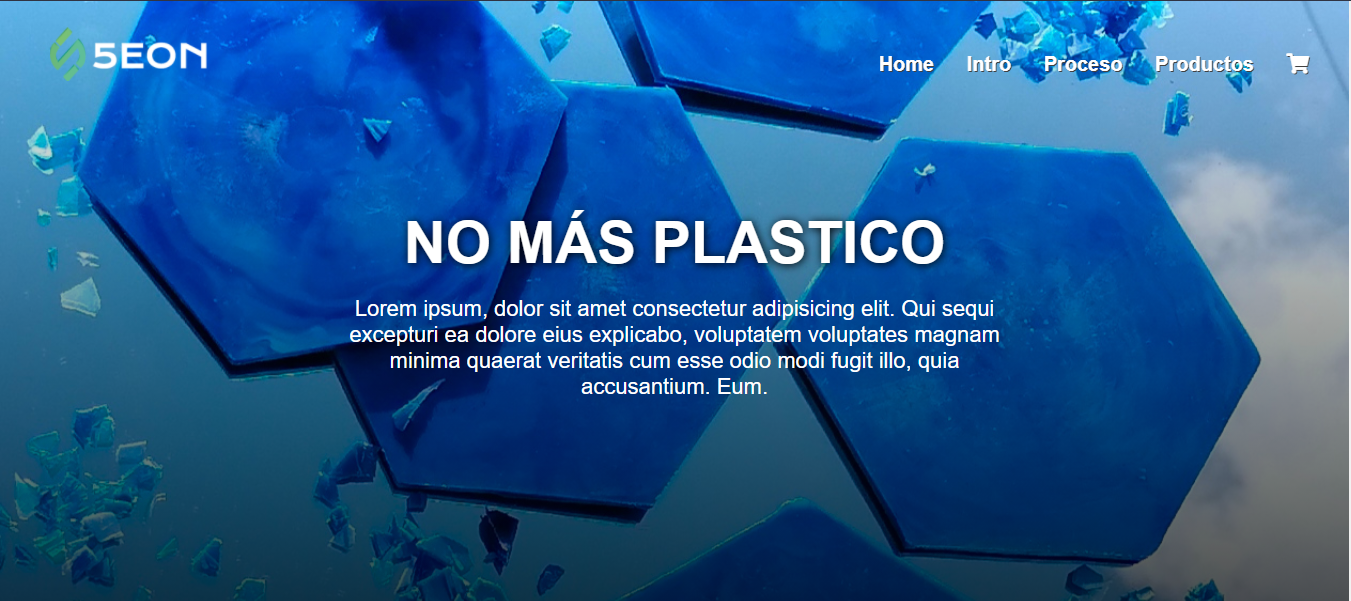
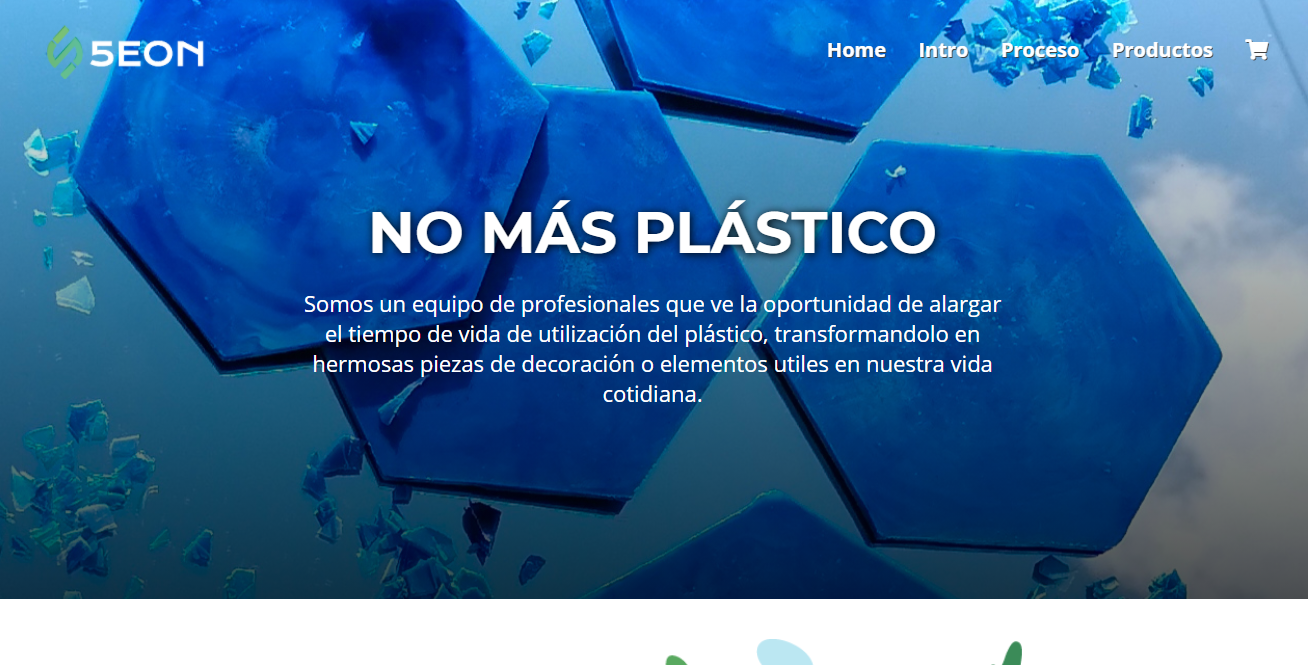
cambio en los textos

diff --git a/src/views/home.js b/src/views/home.js
@@ -1,33 +1,31 @@
-import header from './home/header.js'
-import footer from './home/footer.js'
-import {seon} from '../../dataBase/data.js'
-import productHome from './home/productHome.js'
-import {componentCart} from './shopPage/cart/controllerCart.js'
-
+import header from "./home/header.js";
+import footer from "./home/footer.js";
+import { seon } from "../../dataBase/data.js";
+import productHome from "./home/productHome.js";
+import { componentCart } from "./shopPage/cart/controllerCart.js";
 
 export default () => {
+  //inyectar header
+  const cHeader = header();
+  const cFooter = footer();
 
-    //inyectar header
-    const cHeader = header()
-    const cFooter = footer()
+  document.body.prepend(cHeader);
+  document.body.appendChild(cFooter);
 
-    document.body.prepend(cHeader)
-    document.body.appendChild(cFooter)
+  //BUG so slow when charge the cart maybe is for the render....
 
-    //BUG so slow when charge the cart maybe is for the render....
+  const landingPage = document.createElement("div");
+  landingPage.classList.add("l-landing");
 
-    const landingPage = document.createElement('div')
-    landingPage.classList.add('l-landing')
-
-    const view =`<section id="intro" class ="home">
+  const view = `<section id="intro" class ="home">
                         <h1 id="test" class="home__title">No más plástico</h1>
-                        <p class="home__text">Somos un equipo de profesionales que ve la oportunidad de alargar el tiempo de vida de utilización del plástico, transformandolo en hermosas piezas de decoración o elementos utiles en nuestra vida cotidiana.</p>
+                        <p class="home__text">Alargamos el tiempo de vida de utilización del plástico, transformandolo en hermosas piezas de decoración.</p>
                     </section>
 
                     <section id="aboutUs" class="intro">
                         <div class="intro__text">
                             <h2 class="text__title">¿Quienes somos?</h2>
-                            <p class="text__text" >Somos un equipo de profesionales enfocados en alargar el tiempo de vida de utilización del plástico, transformando el plastico recuperado en hermosas piezas de decoración o elementos utiles para nuestra vida cotidiana.</p>
+                            <p class="text__text" >Somos un equipo de profesionales enfocados en alargar el tiempo de vida de utilización del plástico, transformándolo en hermosas piezas de decoración o elementos útiles para nuestra vida cotidiana.</p>
                         </div>
                         <div class="intro__img"></div>
                     </section>
@@ -136,48 +134,44 @@ export default () => {
                             <div class="container-img img-left"><img src="./assets/photos-hashtag/imagen-3.png" alt=""></div>
                             <div class="container-img "><img src="./assets/photos-hashtag/imagen-4.png" alt=""></div>
                         </div>
-                    </section>`
+                    </section>`;
 
+  landingPage.innerHTML = view;
+  landingPage.appendChild(componentCart());
 
+  const carrousel = landingPage.querySelector(".productos-carrusel");
+  const carrouselContenedor = landingPage.querySelector(
+    ".productos__contenedor"
+  );
+  let mousePress = false;
+  let posX = 0;
 
-    landingPage.innerHTML = view;
-    landingPage.appendChild(componentCart())
+  seon.products.forEach((element) => {
+    const product = productHome(element);
+    product.onclick = () => {
+      window.location.hash = `#/product/${product.dataset.id}`;
+    };
+    carrousel.appendChild(product);
+  });
 
+  //activate for move when press the mouse on carrousel
+  carrousel.addEventListener("mousedown", (e) => {
+    mousePress = true;
+    posX = e.clientX;
+  });
 
-    const carrousel = landingPage.querySelector('.productos-carrusel')
-    const carrouselContenedor = landingPage.querySelector('.productos__contenedor')
-    let mousePress = false
-    let posX = 0
+  //deactivate when mouse up in all the page
+  landingPage.addEventListener("mouseup", () => {
+    mousePress = false;
+  });
 
-    seon.products.forEach(element=>{
-        const product = productHome(element)
-        product.onclick = () => {window.location.hash = `#/product/${product.dataset.id}`}
-        carrousel.appendChild(product)
-    })
+  //move the carrousel only if mouse if moving
+  carrousel.addEventListener("mousemove", (e) => {
+    if (mousePress) {
+      carrouselContenedor.scrollLeft += posX - e.clientX;
+      posX = e.clientX;
+    }
+  });
 
-
-    //activate for move when press the mouse on carrousel
-    carrousel.addEventListener('mousedown',(e)=>{
-        mousePress = true
-        posX = e.clientX
-    })
-
-    //deactivate when mouse up in all the page
-    landingPage.addEventListener('mouseup',()=>{
-        mousePress = false
-    })
-
-
-    //move the carrousel only if mouse if moving
-    carrousel.addEventListener('mousemove',(e)=>{
-        if(mousePress){
-            carrouselContenedor.scrollLeft += posX - e.clientX
-            posX = e.clientX
-        }
-    })
-
-
-
-
-    return landingPage
-}
+  return landingPage;
+};
